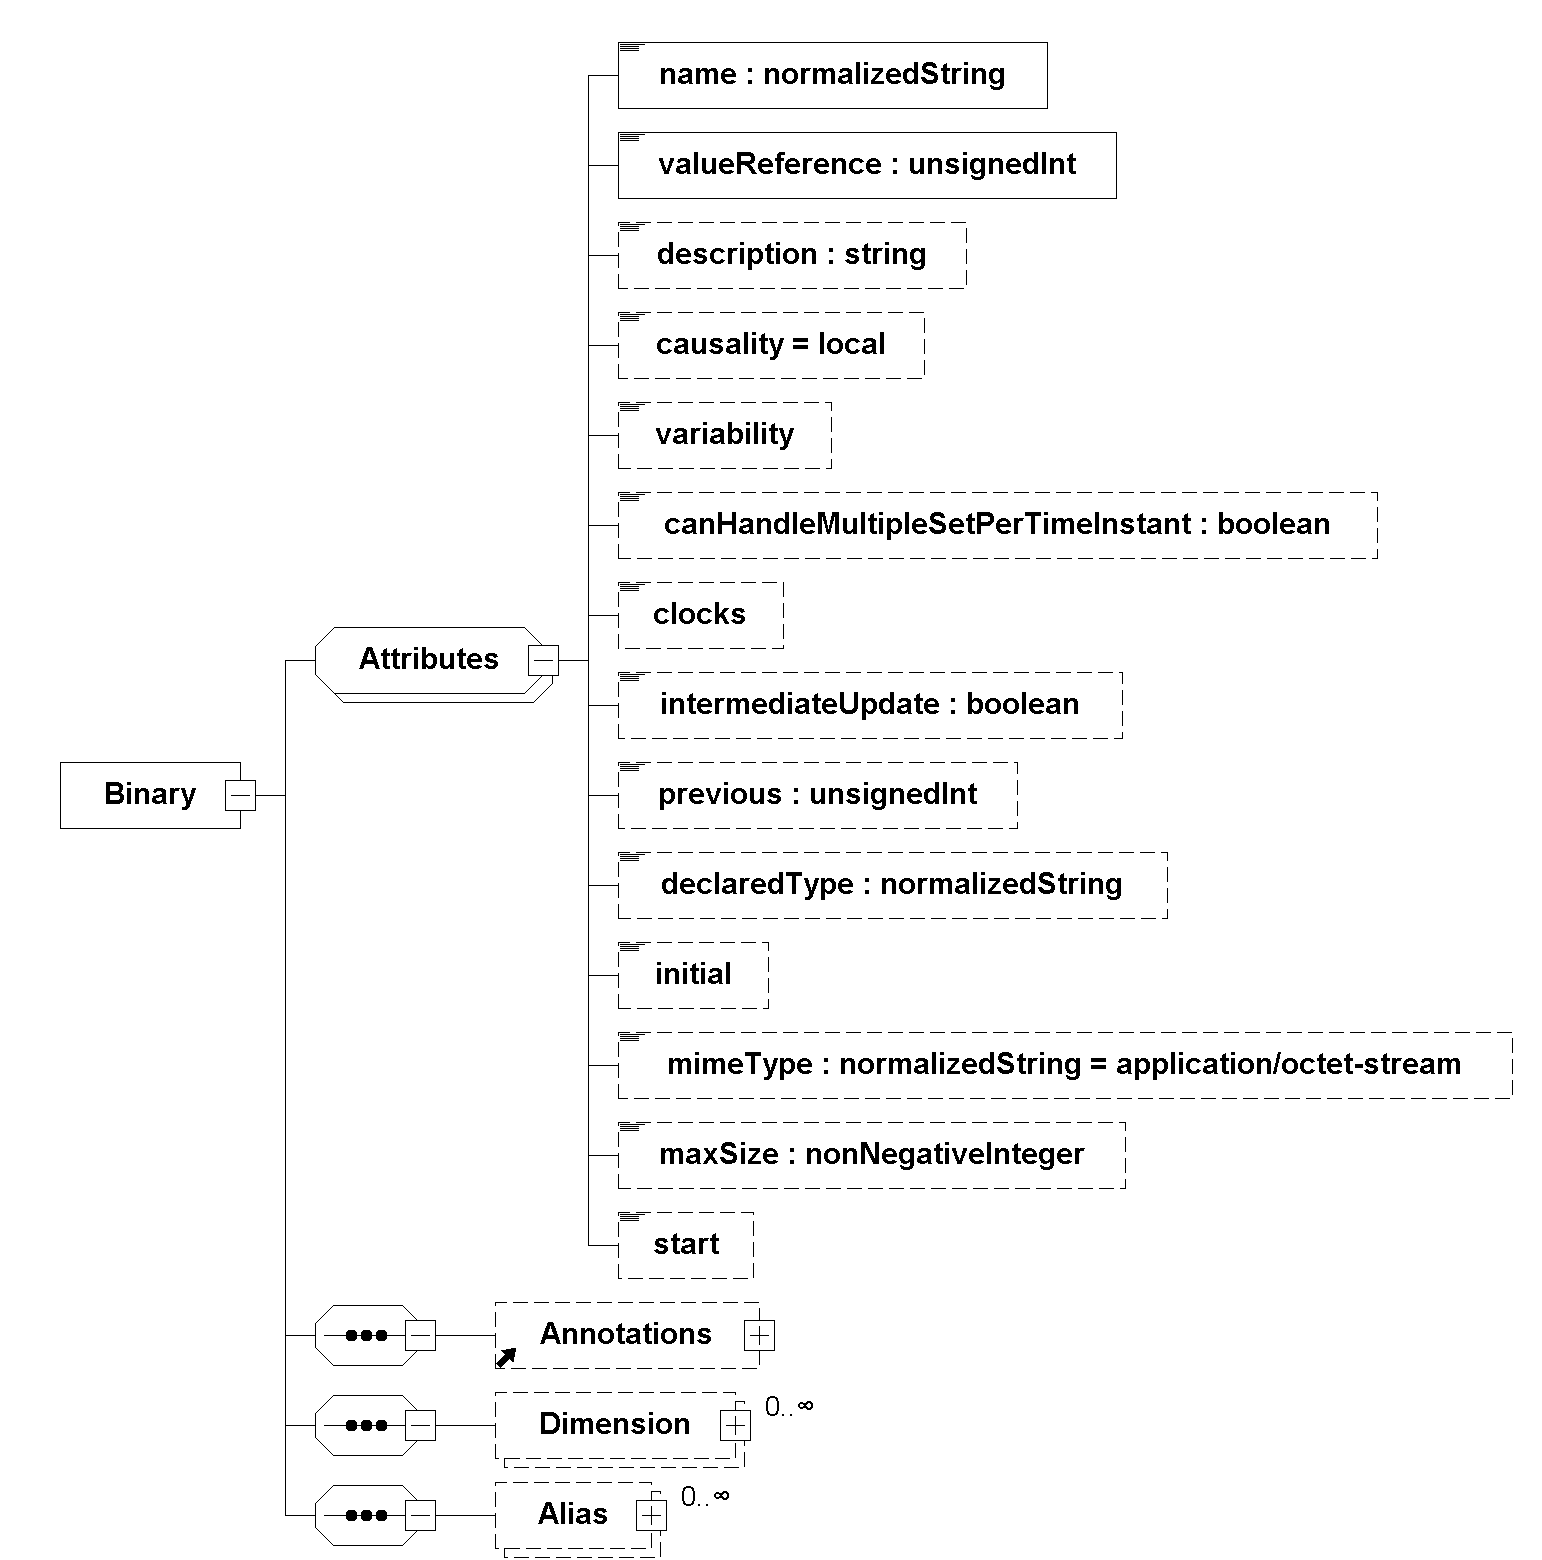
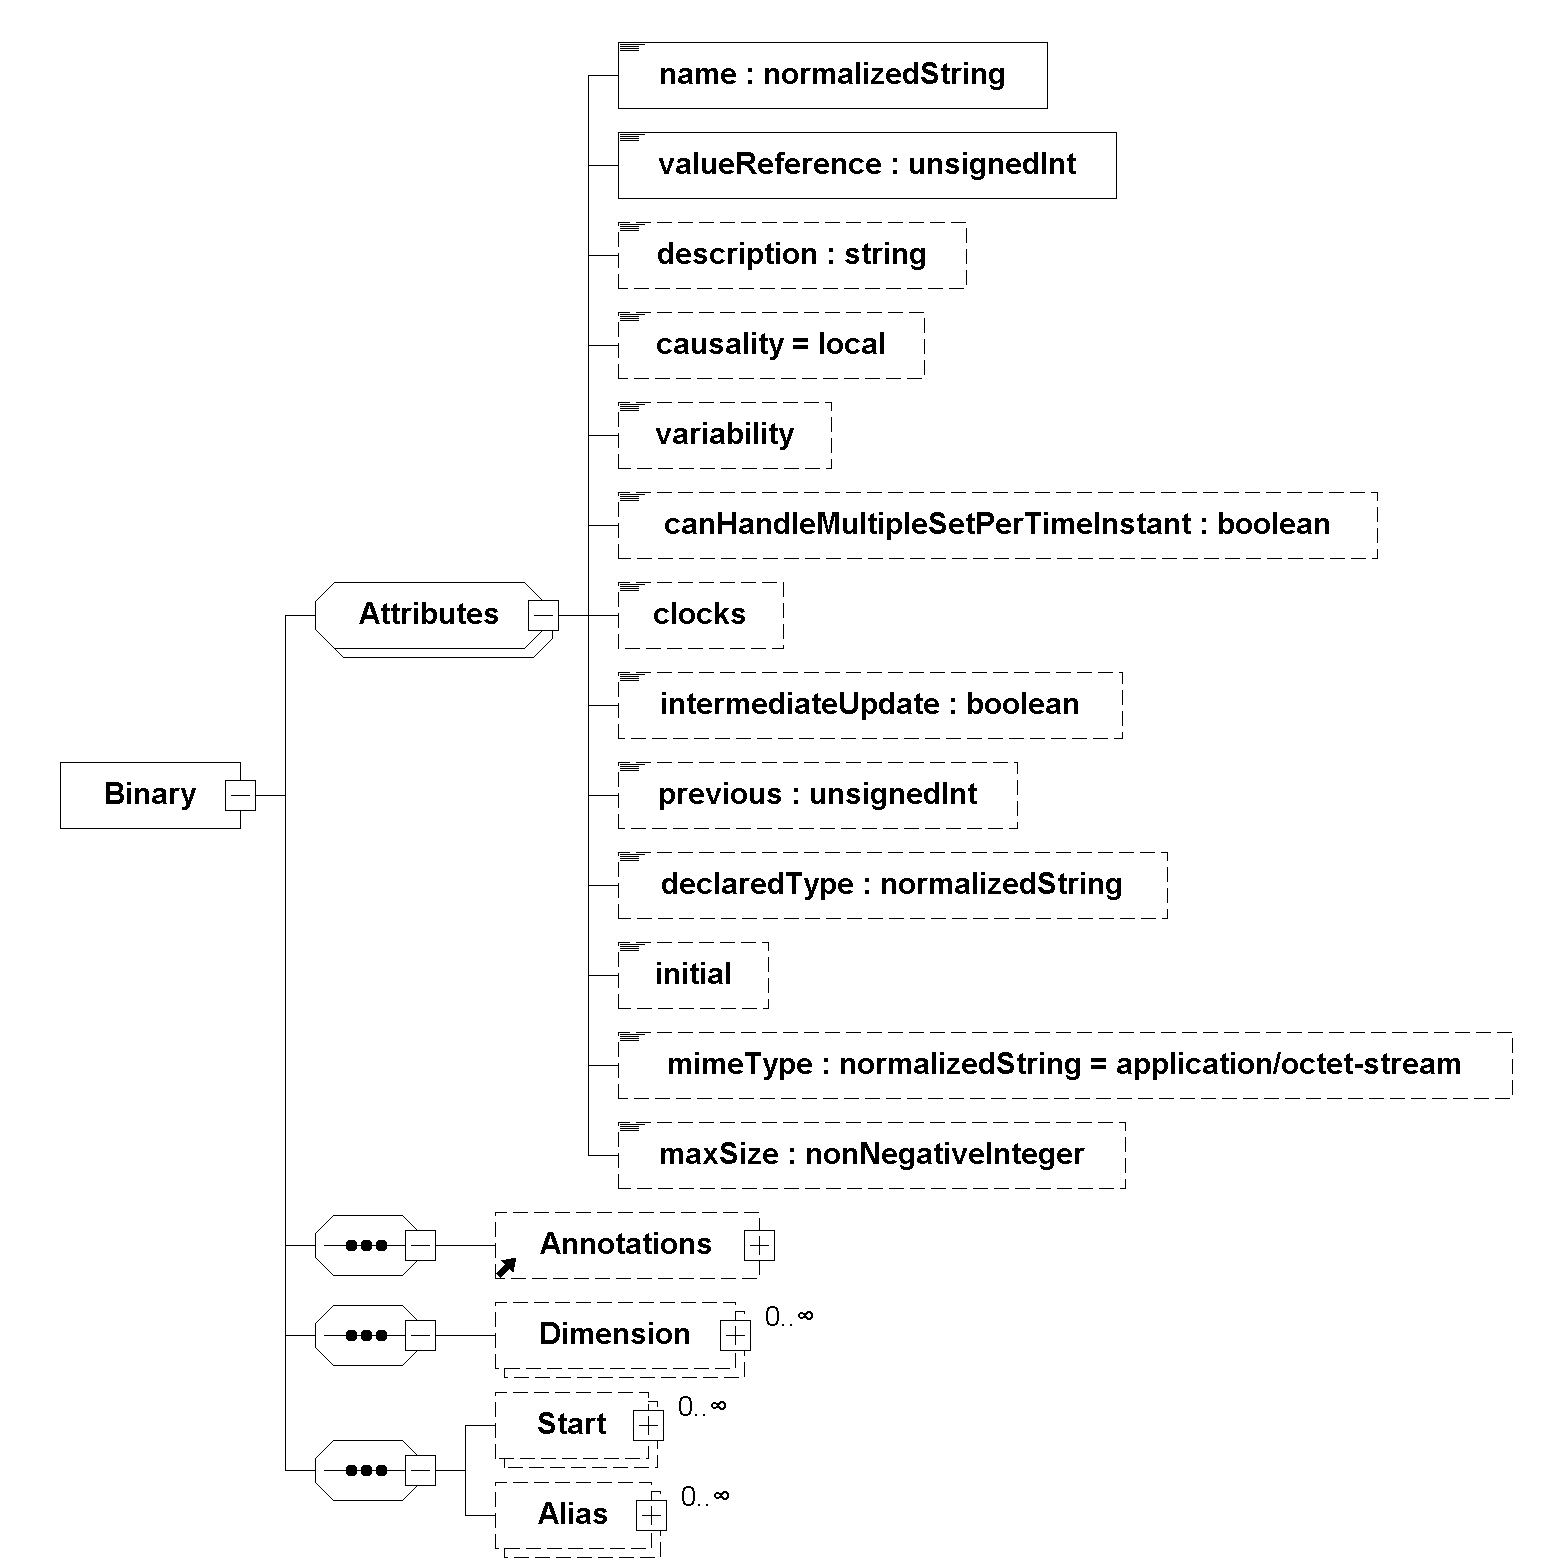
Update generated specification from fmi-standard (4bbb2e4)

diff --git a/docs/3.0-dev/index.html b/docs/3.0-dev/index.html
@@ -587,7 +587,7 @@ document.addEventListener('keydown', (event) => {
 <div id="header">
 <h1>Functional Mock-up Interface Specification</h1>
 <div class="details">
-<span id="revnumber">version 83f8b6a,</span>
+<span id="revnumber">version 4bbb2e4,</span>
 <span id="revdate">2022-01-26</span>
 </div>
 <div id="toc" class="toc2">
@@ -7078,7 +7078,7 @@ The serialization of a multi-dimensional array variable is described in <a href=
 If only a single value is given for a multi-dimensional array, all values of the multi-dimensional array are equal to this value.</p>
 </div>
 <div class="paragraph">
-<p>For variables of type <code>&lt;String&gt;</code>, the start values are not given as a list in the <code>start</code> attribute but as a sequence of <code>&lt;Start&gt;</code> elements with a <code>value</code> attribute.</p>
+<p>For variables of type <code>&lt;String&gt;</code> and <code>&lt;Binary&gt;</code>, the start values are not given as a list in the <code>start</code> attribute but as a sequence of <code>&lt;Start&gt;</code> elements with a <code>value</code> attribute.</p>
 </div>
 <div class="paragraph">
 <p><em>[ Example:</em>
